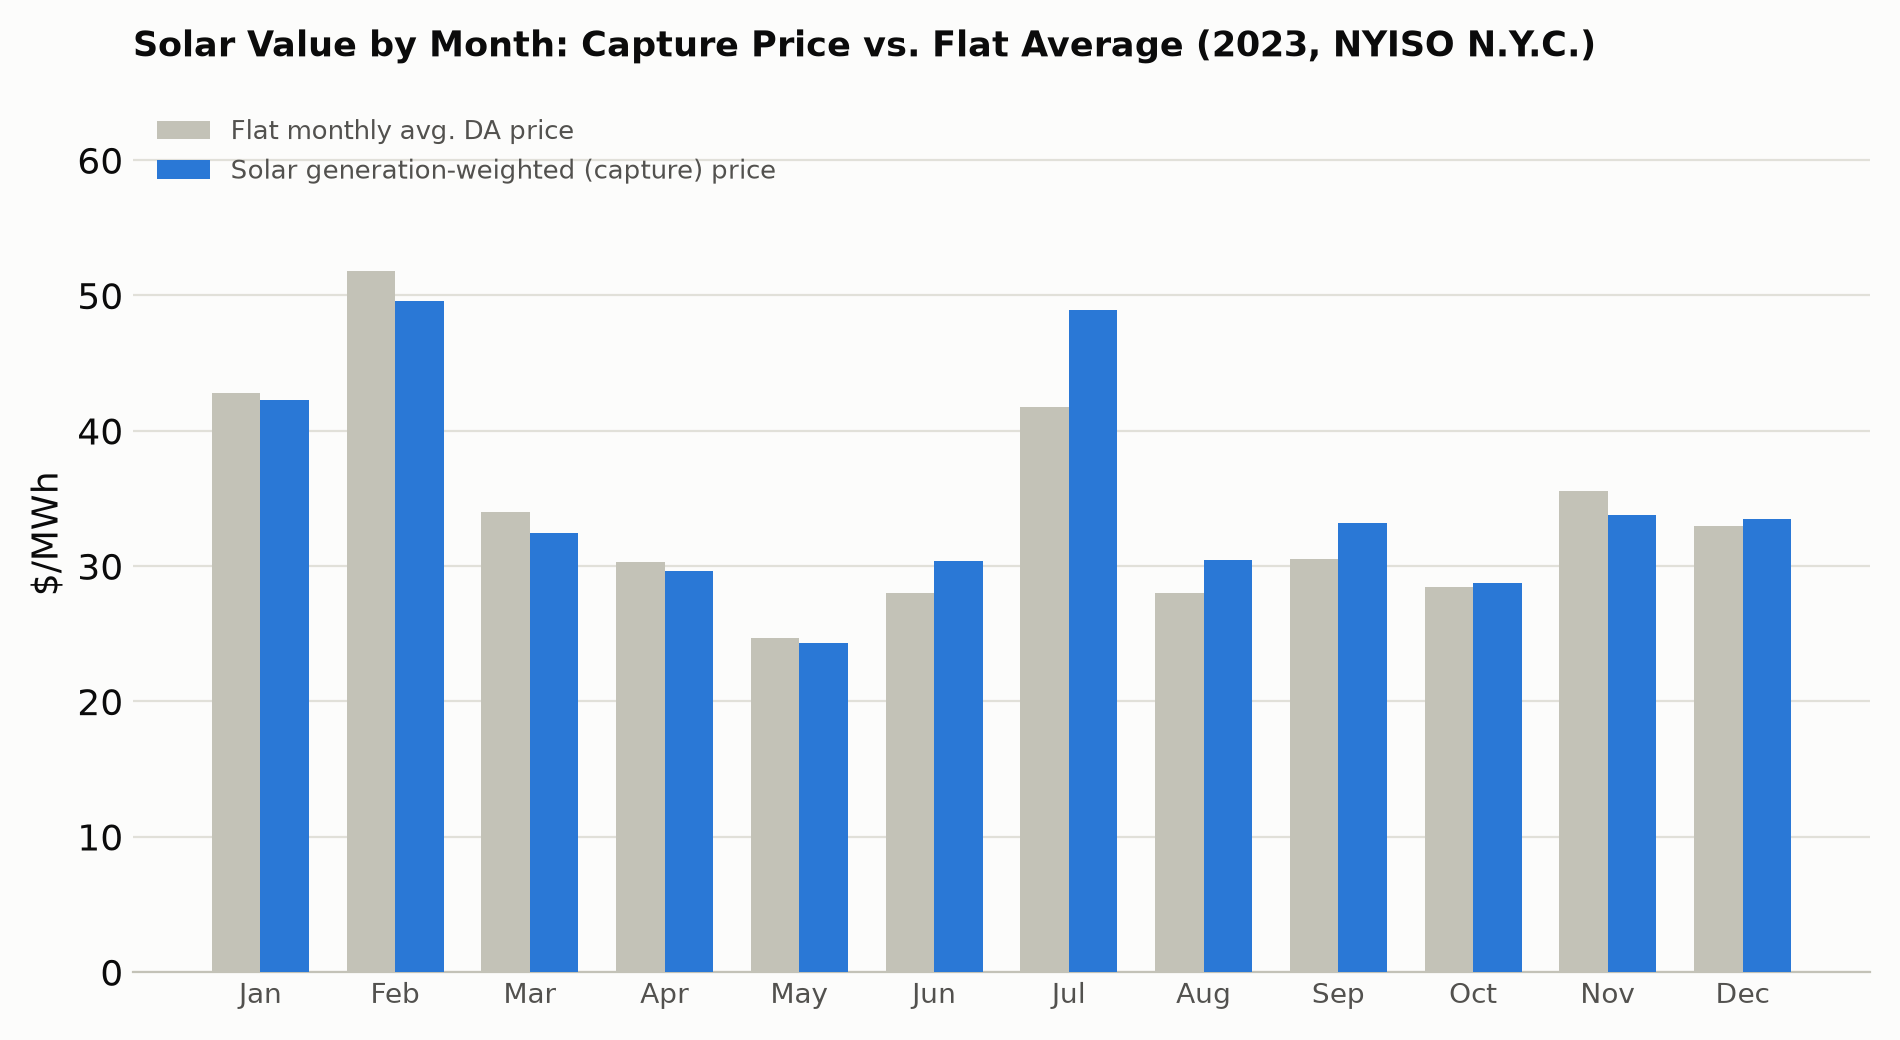
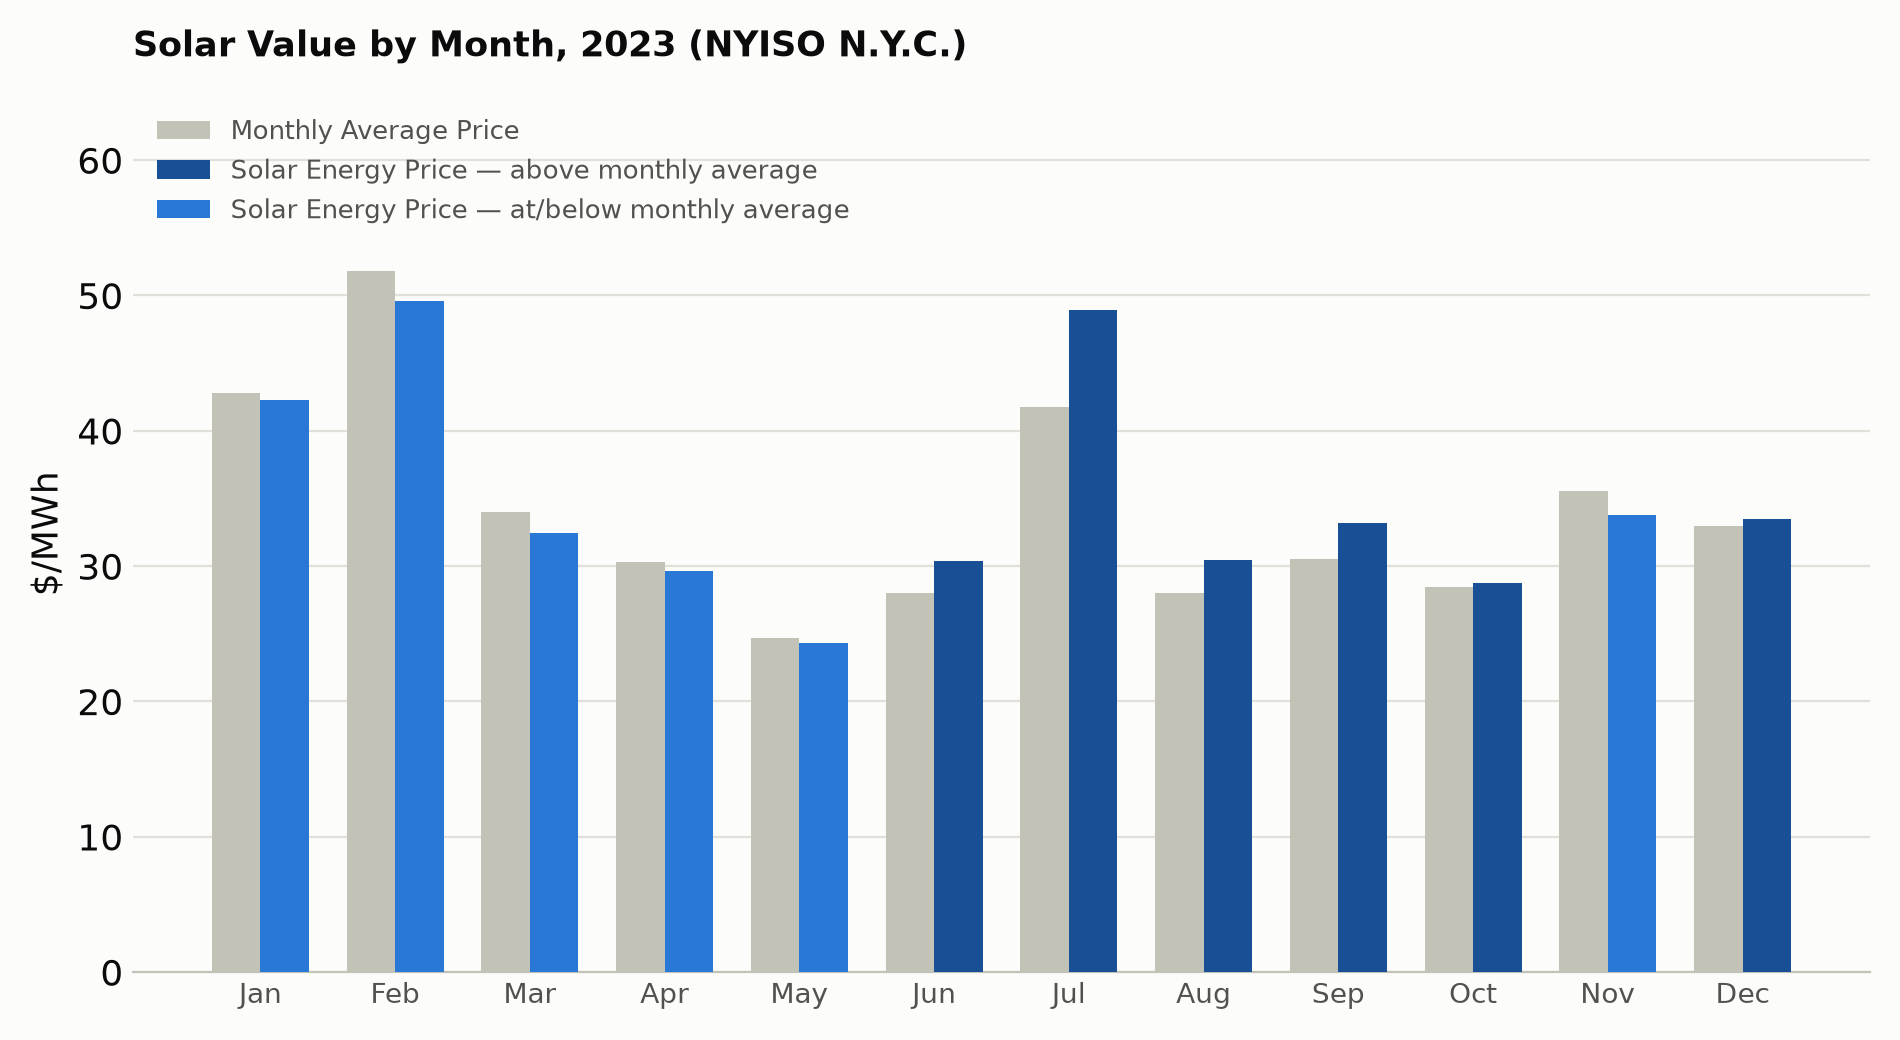
Relabel and highlight solar value chart
Rename legend/title terms to "Monthly Average Price" and "Monthly
Average Energy Price of Solar Generation", and color solar's bar dark
blue in months where it exceeds the flat monthly average price.

diff --git a/no_interconnection_limit/solar_value_chart.py b/no_interconnection_limit/solar_value_chart.py
@@ -25,7 +25,7 @@ capture = [gen_num[m]/gen_den[m] for m in range(1,13)]
 flat = [flat_sum[m]/flat_cnt[m] for m in range(1,13)]
 gen_share = [100*gen_den[m]/sum(gen_den.values()) for m in range(1,13)]
 
-BLUE, ORANGE = '#2a78d6', '#eb6834'
+BLUE, DARK_BLUE, ORANGE = '#2a78d6', '#184f95', '#eb6834'
 INK_PRIMARY, INK_SECONDARY, INK_MUTED = '#0b0b0b', '#52514e', '#898781'
 GRIDLINE, BASELINE, SURFACE = '#e1e0d9', '#c3c2b7', '#fcfcfb'
 
@@ -34,8 +34,17 @@ fig.patch.set_facecolor(SURFACE); ax1.set_facecolor(SURFACE)
 
 x = np.arange(12)
 w = 0.36
-ax1.bar(x - w/2, flat, width=w, color='#c3c2b7', label='Flat monthly avg. DA price', zorder=3)
-ax1.bar(x + w/2, capture, width=w, color=BLUE, label='Solar generation-weighted (capture) price', zorder=3)
+capture_colors = [DARK_BLUE if capture[i] > flat[i] else BLUE for i in range(12)]
+
+ax1.bar(x - w/2, flat, width=w, color='#c3c2b7', label='Monthly Average Price', zorder=3)
+ax1.bar(x + w/2, capture, width=w, color=capture_colors, zorder=3)
+
+from matplotlib.patches import Patch
+legend_handles = [
+    Patch(facecolor='#c3c2b7', label='Monthly Average Price'),
+    Patch(facecolor=DARK_BLUE, label='Solar Energy Price — above monthly average'),
+    Patch(facecolor=BLUE, label='Solar Energy Price — at/below monthly average'),
+]
 
 ax1.set_xticks(x); ax1.set_xticklabels(months, color=INK_SECONDARY, fontsize=10)
 ax1.set_ylabel('$/MWh', color=INK_PRIMARY, fontsize=13)
@@ -48,9 +57,9 @@ ax1.spines['bottom'].set_color(BASELINE)
 ax1.tick_params(axis='y', colors=INK_PRIMARY, length=0, labelsize=13)
 ax1.tick_params(axis='x', length=0)
 
-ax1.set_title('Solar Value by Month: Capture Price vs. Flat Average (2023, NYISO N.Y.C.)',
+ax1.set_title('Solar Value by Month, 2023 (NYISO N.Y.C.)',
               color=INK_PRIMARY, fontsize=12.5, fontweight='bold', pad=14, loc='left')
-ax1.legend(loc='upper left', frameon=False, fontsize=9.5, labelcolor=INK_SECONDARY)
+ax1.legend(handles=legend_handles, loc='upper left', frameon=False, fontsize=9.5, labelcolor=INK_SECONDARY)
 
 plt.tight_layout()
 plt.savefig('no_interconnection_limit/solar_value_by_month.png', facecolor=SURFACE)
